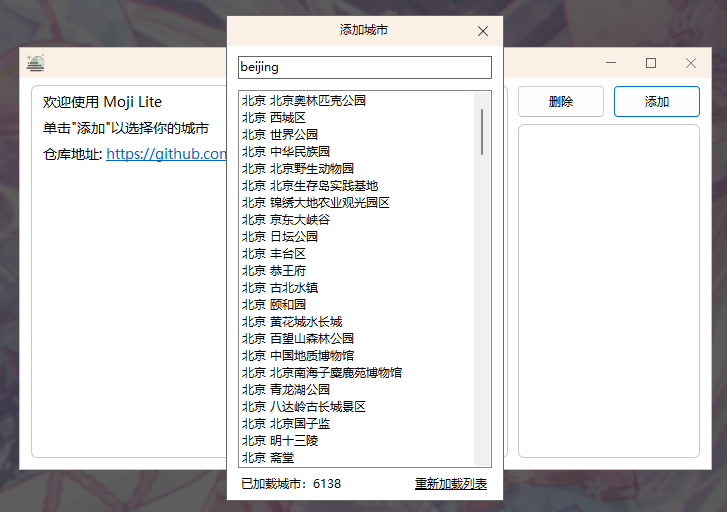
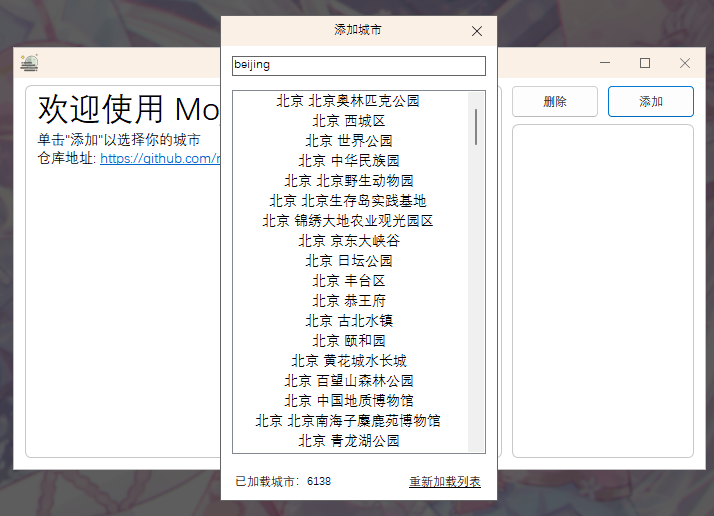
1.0.2 版本更新，详情请查看 CHANGELOG.md

Changed region(s): [[0.0, 0.0312, 1.0, 1.0], [0.8936, 0.0938, 0.9244, 0.125], [0.3081, 0.0312, 0.3389, 0.0625]]

diff --git a/Moji Lite/AddCity.cs b/Moji Lite/AddCity.cs
@@ -1,6 +1,5 @@
 using KlxPiaoAPI;
 using KlxPiaoControls;
-using System.Text;
 
 namespace Moji_Lite
 {
@@ -9,6 +8,7 @@ namespace Moji_Lite
         private readonly MainWindow mainWindow;
 
         private const string requestLink = "https://tianqi.moji.com/weather/china";
+        private const string linkPrefix = "https://tianqi.moji.com/";
         private readonly string cacheCitiesFile = $"{Path.Combine(Application.StartupPath, "cache/Cities.cache")}";
         private readonly string cacheCityLinksFile = $"{Path.Combine(Application.StartupPath, "cache/CityLinks.cache")}";
 
@@ -25,21 +25,52 @@ namespace Moji_Lite
             citiesListBox.SelectedIndexChanged += CityListBox_SelectedIndexChanged;
             searchTextBox.TextChanged += SearchTextBox_TextChanged;
             refreshLinkLabel.LinkClicked += RefreshLinkLabel_LinkClicked;
+            citiesListBox.DrawItem += CitiesListBox_DrawItem;
             mainWindow = parentForm;
+
+            citiesListBox.DrawMode = DrawMode.OwnerDrawFixed;
+            citiesListBox.ItemHeight = 20;
+        }
+
+        private void CitiesListBox_DrawItem(object? sender, DrawItemEventArgs e)
+        {
+            if (e.Index < 0) return;
+
+            //清除背景
+            e.DrawBackground();
+
+            //设置绘制区域
+            var itemText = citiesListBox.Items[e.Index].ToString();
+            Font? font = e.Font;
+            if (font != null)
+            {
+                var textSize = e.Graphics.MeasureString(itemText, font);
+
+                //计算文本的居中位置
+                var textX = e.Bounds.X + (e.Bounds.Width - textSize.Width) / 2;
+                var textY = e.Bounds.Y + (e.Bounds.Height - textSize.Height) / 2;
+
+                //如果是选中项，设置背景色为蓝色，前景色为绿色
+                if ((e.State & DrawItemState.Selected) == DrawItemState.Selected)
+                {
+                    e.Graphics.FillRectangle(new SolidBrush(Color.FromArgb(220, 220, 220)), e.Bounds); //设置背景色
+                    e.Graphics.DrawString(itemText, font, Brushes.Black, textX, textY); //设置前景色
+                }
+                else
+                {
+                    e.Graphics.DrawString(itemText, font, Brushes.Black, textX, textY); //默认前景色
+                }
+
+                //绘制焦点矩形（如果需要）
+                e.DrawFocusRectangle();
+            }
         }
 
         //重新加载列表
         private void RefreshLinkLabel_LinkClicked(object? sender, LinkLabelLinkClickedEventArgs e)
         {
-            if (File.Exists(cacheCitiesFile))
-            {
-                File.Delete(cacheCitiesFile);
-            }
-
-            if (File.Exists(cacheCityLinksFile))
-            {
-                File.Delete(cacheCityLinksFile);
-            }
+            if (File.Exists(cacheCitiesFile)) File.Delete(cacheCitiesFile);
+            if (File.Exists(cacheCityLinksFile)) File.Delete(cacheCityLinksFile);
 
             CloseForm();
             mainWindow.addCityBut.PerformClick();
@@ -82,7 +113,7 @@ namespace Moji_Lite
 
             if (mainWindow.SaveCities.TryAdd(key, value))
             {
-                mainWindow.citiesListBox.Items.Add(key);
+                mainWindow.citiesListBox.Items.Add(key.TruncateStringToFitWidth(mainWindow.citiesListBox.Width, mainWindow.citiesListBox.Font));
             }
         }
 
@@ -112,7 +143,7 @@ namespace Moji_Lite
                 }
                 List<string> provinceOriginalList = originalText.ExtractBetween("<div class=\"city_title\">全部省份</div>", "</div>").ExtractAllBetween("<li>", "</li>");
                 List<string> provinceList = provinceOriginalList.Select(item => item.ExtractBetween(">", "<")).ToList();
-                List<string> provinceLinkList = provinceOriginalList.Select(item => "https://tianqi.moji.com/" + item.ExtractBetween("<a href=\"", "\"")).ToList();
+                List<string> provinceLinkList = provinceOriginalList.Select(item => linkPrefix + item.ExtractBetween("<a href=\"", "\"")).ToList();
                 Dictionary<string, string> provinceDataList = DataUtility.MergeListsToDictionary(provinceList, provinceLinkList);
 
                 List<string> cityList = [];
@@ -145,21 +176,8 @@ namespace Moji_Lite
                 cityData = DataUtility.MergeListsToDictionary(cityList, cityLinkList);
 
                 //缓存数据
-                StringBuilder citiesSb = new();
-                StringBuilder cityLinksSb = new();
-                cityData.ToList().ForEach(item =>
-                {
-                    citiesSb.AppendLine(item.Key);
-                    cityLinksSb.AppendLine(item.Value);
-                });
-                using (var streamWriter = new StreamWriter(cacheCitiesFile))
-                {
-                    streamWriter.Write(citiesSb.ToString());
-                }
-                using (var streamWriter = new StreamWriter(cacheCityLinksFile))
-                {
-                    streamWriter.Write(cityLinksSb.ToString());
-                }
+                File.WriteAllLines(cacheCitiesFile, cityData.Keys.ToList());
+                File.WriteAllLines(cacheCityLinksFile, cityData.Values.ToList());
             }
 
             //更新列表

diff --git a/Moji Lite/AddCity.Designer.cs b/Moji Lite/AddCity.Designer.cs
@@ -36,37 +36,42 @@
             // 
             // citiesListBox
             // 
+            citiesListBox.Font = new Font("等线", 10.5F, FontStyle.Regular, GraphicsUnit.Point, 134);
             citiesListBox.FormattingEnabled = true;
-            citiesListBox.ItemHeight = 17;
+            citiesListBox.ItemHeight = 14;
             citiesListBox.Location = new Point(12, 75);
             citiesListBox.Name = "citiesListBox";
-            citiesListBox.Size = new Size(254, 378);
+            citiesListBox.Size = new Size(254, 368);
             citiesListBox.TabIndex = 1;
             // 
             // searchTextBox
             // 
             searchTextBox.BorderStyle = BorderStyle.FixedSingle;
+            searchTextBox.Font = new Font("等线", 9F);
             searchTextBox.Location = new Point(12, 41);
             searchTextBox.Name = "searchTextBox";
-            searchTextBox.Size = new Size(254, 23);
+            searchTextBox.Size = new Size(254, 20);
             searchTextBox.TabIndex = 0;
             // 
             // tipLabel
             // 
             tipLabel.AutoSize = true;
+            tipLabel.Font = new Font("等线", 9F);
             tipLabel.Location = new Point(12, 460);
             tipLabel.Name = "tipLabel";
-            tipLabel.Size = new Size(0, 17);
+            tipLabel.Size = new Size(55, 13);
             tipLabel.TabIndex = 3;
+            tipLabel.Text = "示例文本";
             // 
             // refreshLinkLabel
             // 
             refreshLinkLabel.ActiveLinkColor = Color.Black;
             refreshLinkLabel.AutoSize = true;
+            refreshLinkLabel.Font = new Font("等线", 9F);
             refreshLinkLabel.LinkColor = Color.Black;
             refreshLinkLabel.Location = new Point(186, 460);
             refreshLinkLabel.Name = "refreshLinkLabel";
-            refreshLinkLabel.Size = new Size(80, 17);
+            refreshLinkLabel.Size = new Size(79, 13);
             refreshLinkLabel.TabIndex = 2;
             refreshLinkLabel.TabStop = true;
             refreshLinkLabel.Text = "重新加载列表";
@@ -89,6 +94,7 @@
             Text = "添加城市";
             TitleBoxBackColor = Color.Linen;
             TitleButtons = TitleButtonStyle.CloseOnly;
+            TitleFont = new Font("等线", 9F, FontStyle.Regular, GraphicsUnit.Point, 134);
             TitleTextAlign = HorizontalAlignment.Center;
             ResumeLayout(false);
             PerformLayout();

diff --git a/Moji Lite/MainWindow.Designer.cs b/Moji Lite/MainWindow.Designer.cs
@@ -43,6 +43,7 @@ namespace Moji_Lite
             // addCityBut
             // 
             addCityBut.FlatStyle = FlatStyle.System;
+            addCityBut.Font = new Font("等线", 9F);
             addCityBut.Location = new Point(593, 38);
             addCityBut.Name = "addCityBut";
             addCityBut.Size = new Size(88, 33);
@@ -52,6 +53,7 @@ namespace Moji_Lite
             // delCityBut
             // 
             delCityBut.FlatStyle = FlatStyle.System;
+            delCityBut.Font = new Font("等线", 9F);
             delCityBut.Location = new Point(499, 38);
             delCityBut.Name = "delCityBut";
             delCityBut.Size = new Size(88, 33);
@@ -61,18 +63,19 @@ namespace Moji_Lite
             // citiesListBox
             // 
             citiesListBox.BorderStyle = BorderStyle.None;
+            citiesListBox.Font = new Font("等线", 10.5F, FontStyle.Regular, GraphicsUnit.Point, 134);
             citiesListBox.FormattingEnabled = true;
-            citiesListBox.ItemHeight = 17;
+            citiesListBox.ItemHeight = 14;
             citiesListBox.Location = new Point(1, 5);
             citiesListBox.Name = "citiesListBox";
-            citiesListBox.Size = new Size(180, 323);
+            citiesListBox.Size = new Size(180, 308);
             citiesListBox.TabIndex = 9;
             // 
             // richTextBox1
             // 
             richTextBox1.BackColor = Color.White;
             richTextBox1.BorderStyle = BorderStyle.None;
-            richTextBox1.Font = new Font("Microsoft YaHei UI", 10.5F, FontStyle.Regular, GraphicsUnit.Point, 134);
+            richTextBox1.Font = new Font("等线", 10.5F);
             richTextBox1.Location = new Point(3, 3);
             richTextBox1.Name = "richTextBox1";
             richTextBox1.ScrollBars = RichTextBoxScrollBars.Vertical;
@@ -116,6 +119,7 @@ namespace Moji_Lite
             Margin = new Padding(4, 3, 4, 3);
             Name = "MainWindow";
             TitleBoxBackColor = Color.Linen;
+            TitleFont = new Font("等线", 10.5F, FontStyle.Regular, GraphicsUnit.Point, 134);
             TitleTextAlign = HorizontalAlignment.Center;
             panel1.ResumeLayout(false);
             panel2.ResumeLayout(false);
